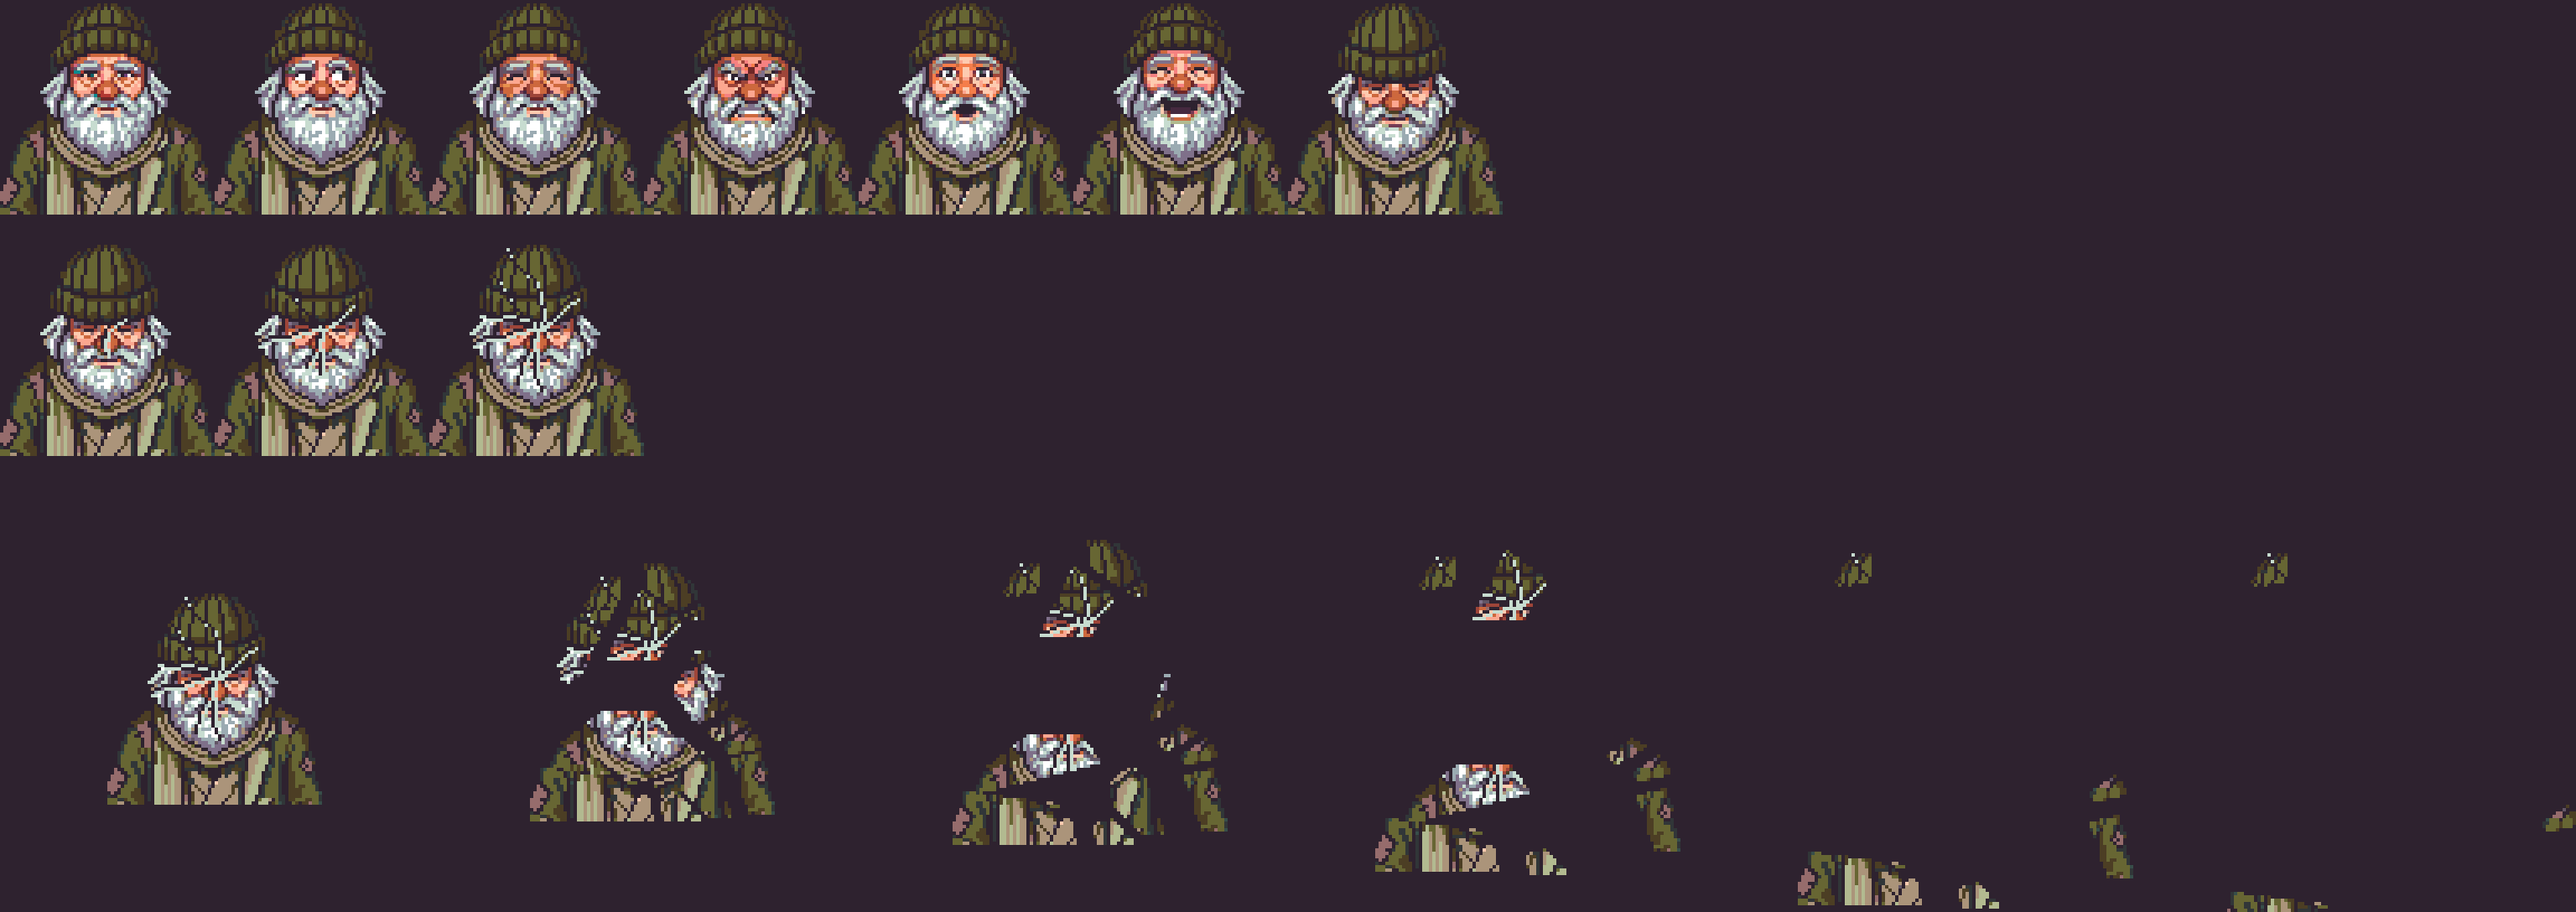
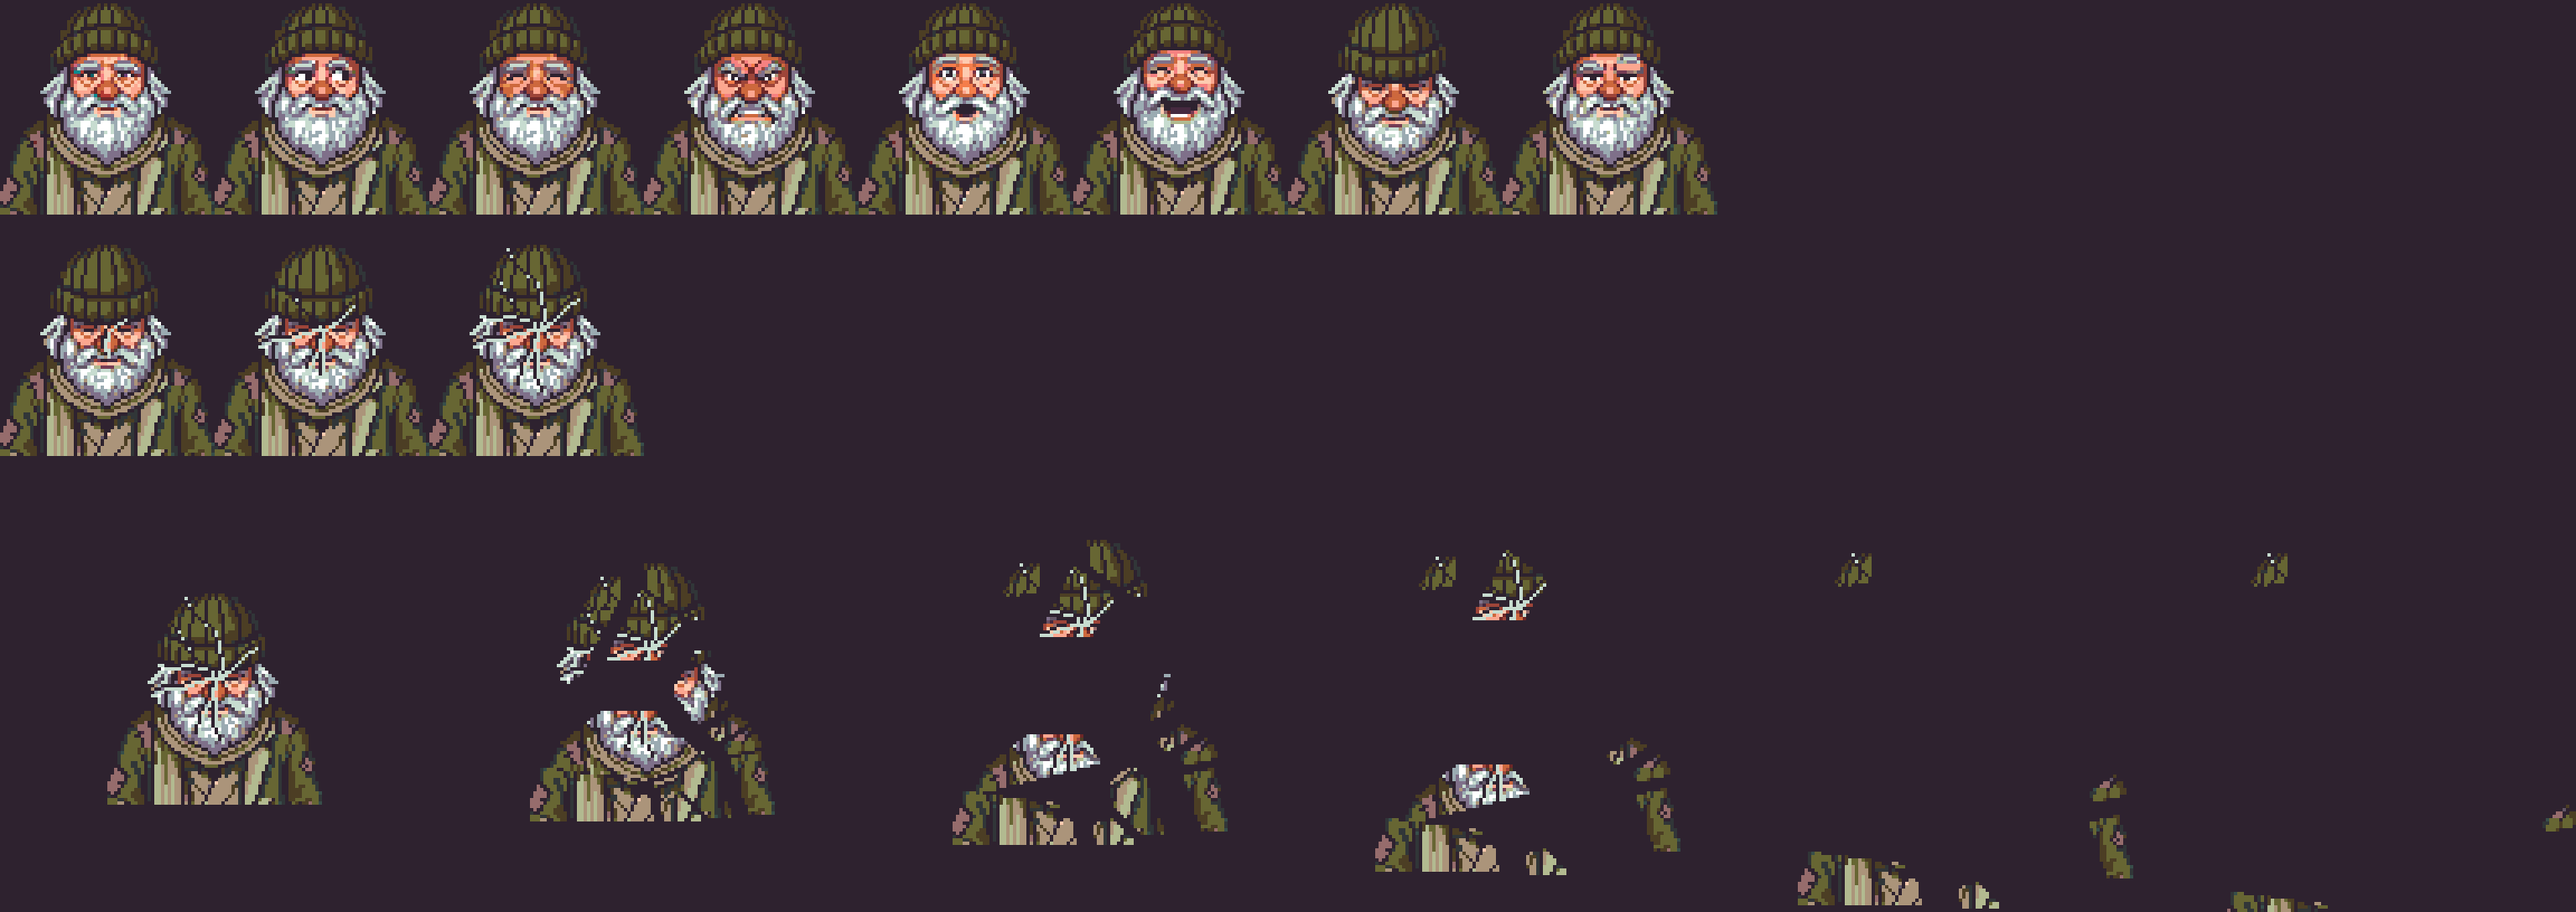
M6c playtest: waiting face = b2 (brow up 2 px), Sean's pick

Changed region(s): [[0.5625, 0.0, 0.6875, 0.25]]

diff --git a/art/strange_man/make_strange_man.py b/art/strange_man/make_strange_man.py
@@ -61,7 +61,7 @@ EXPRESSIONS = {  # asset name -> bust/raw_<source>.png
     # Waiting on the player (M6c playtest, Sean 2026-11-22): edit_image of idle, options
     # bust/raw_waiting_a|b|c.png (compare_waiting.png); Sean picked B "with a raised
     # eyebrow" -> hand-pixelled bust/make_waiting_brow.py b1|b2|b3 (b3 arched, pending OK).
-    "waiting": "waiting_b3",
+    "waiting": "waiting_b2",
 }
 GOOB_X = {"blue": 72, "red": 198}  # centre x in game px, either side of him on the pool
 CRACK_DARK, CRACK_LIT = hexc("2e222f"), hexc("c7dcd0")
